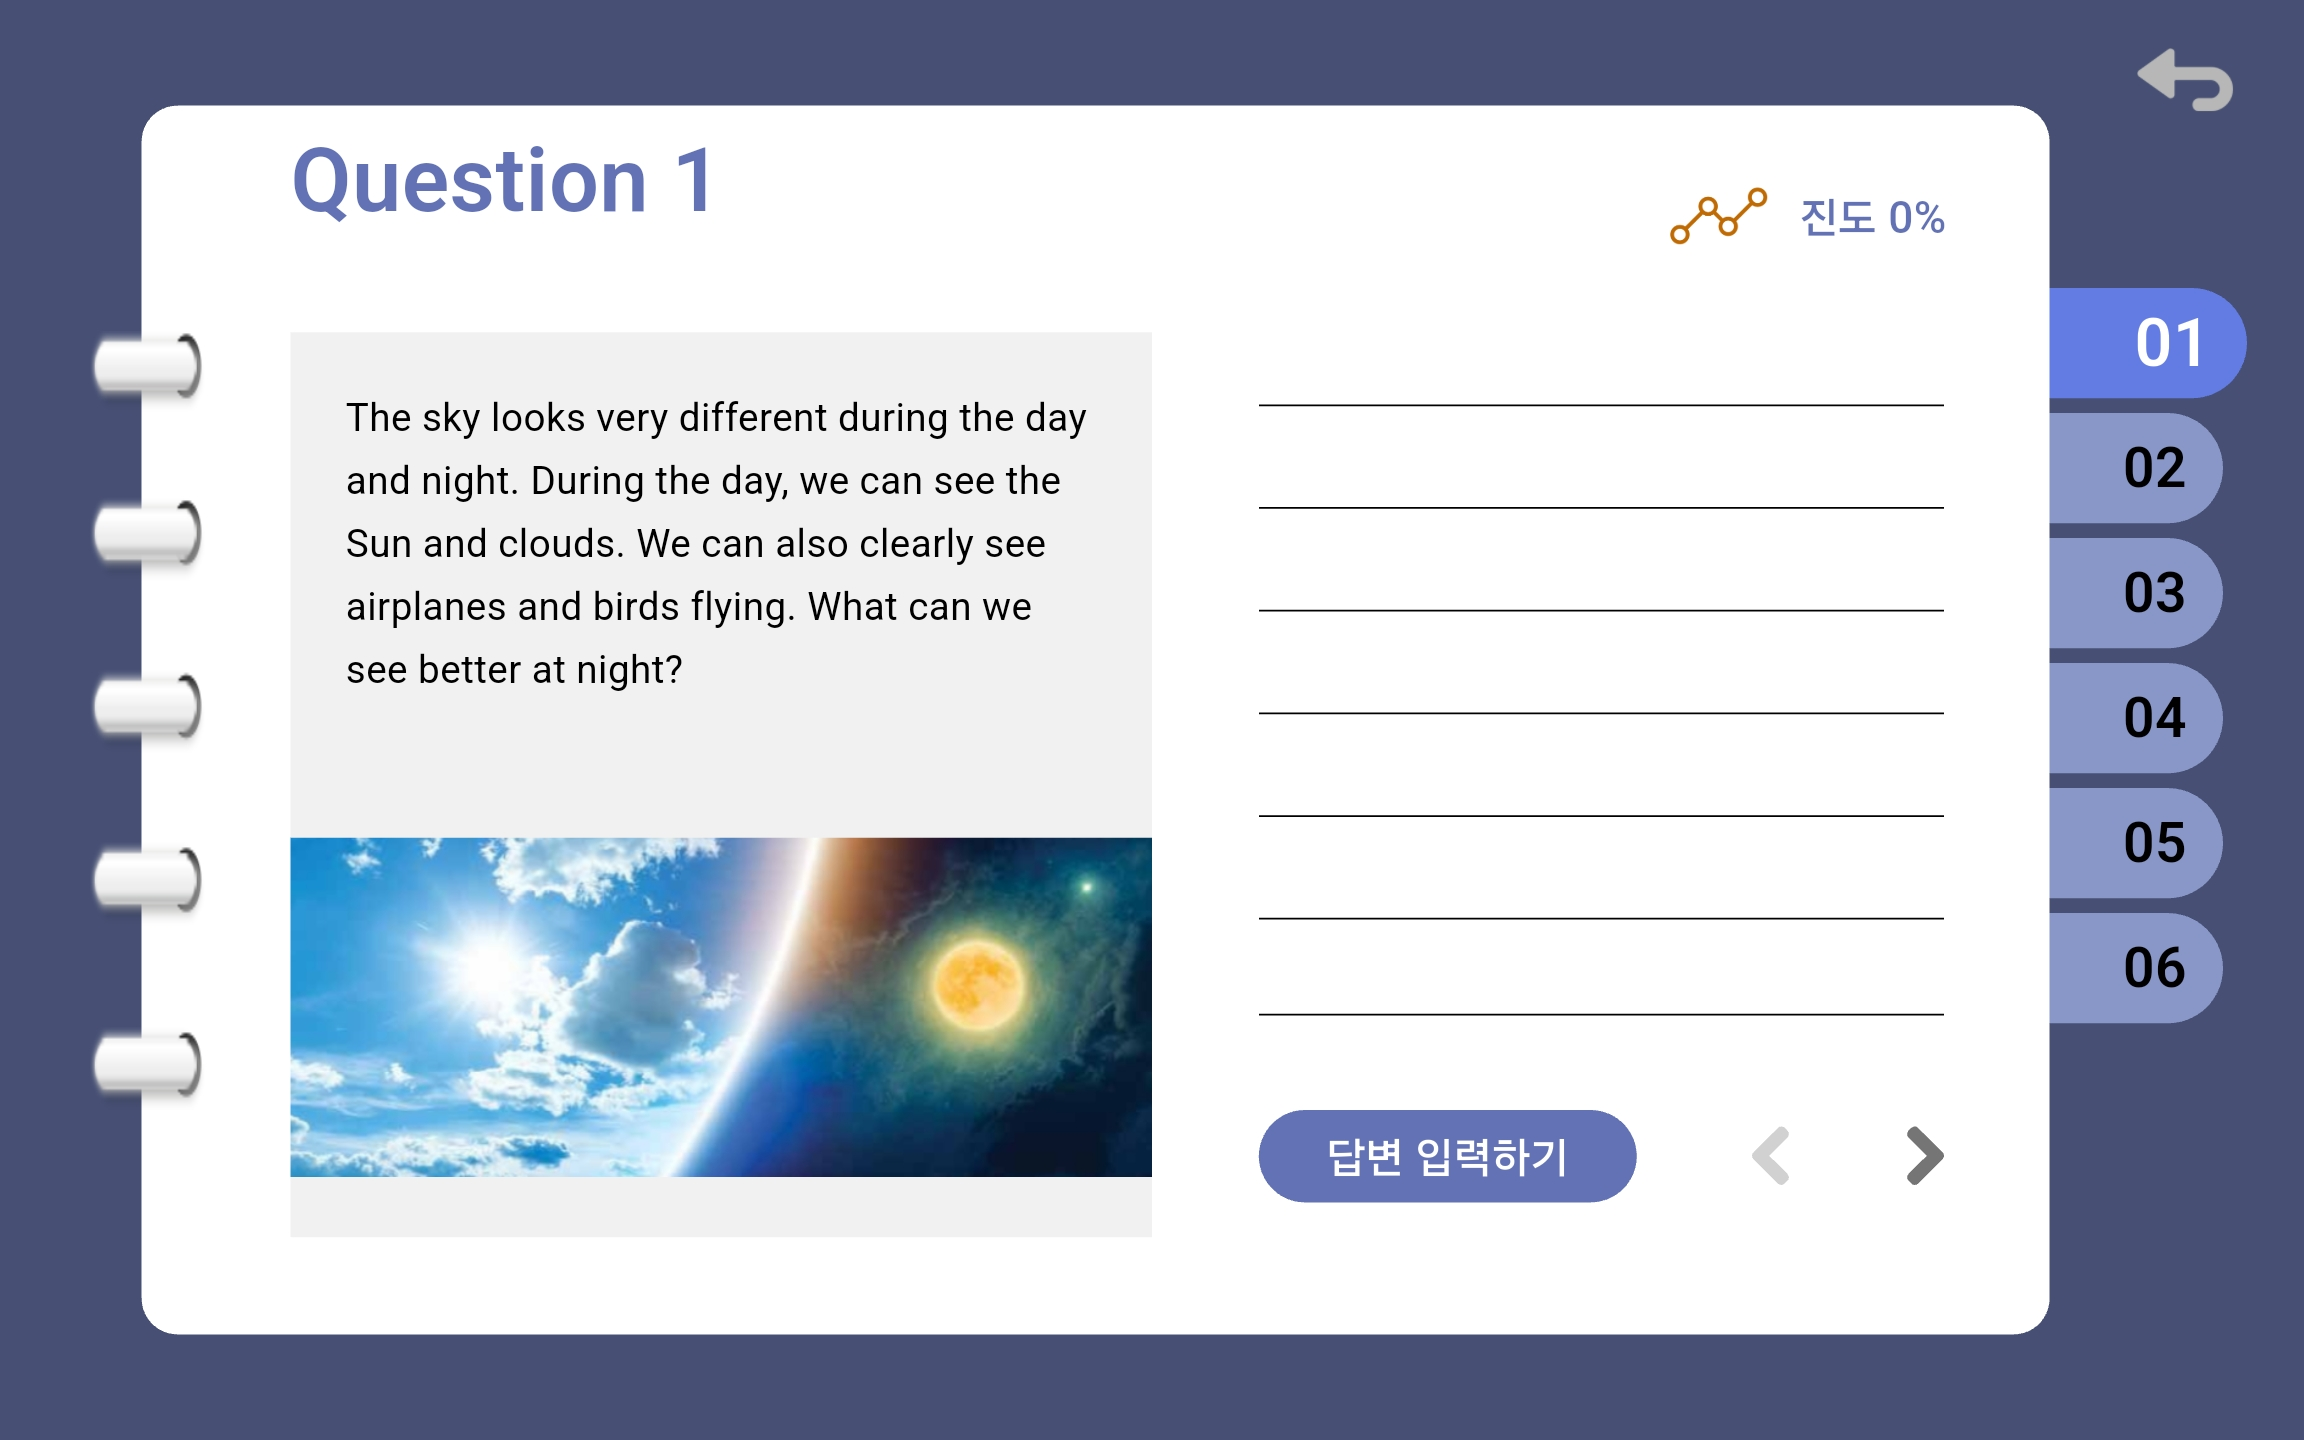
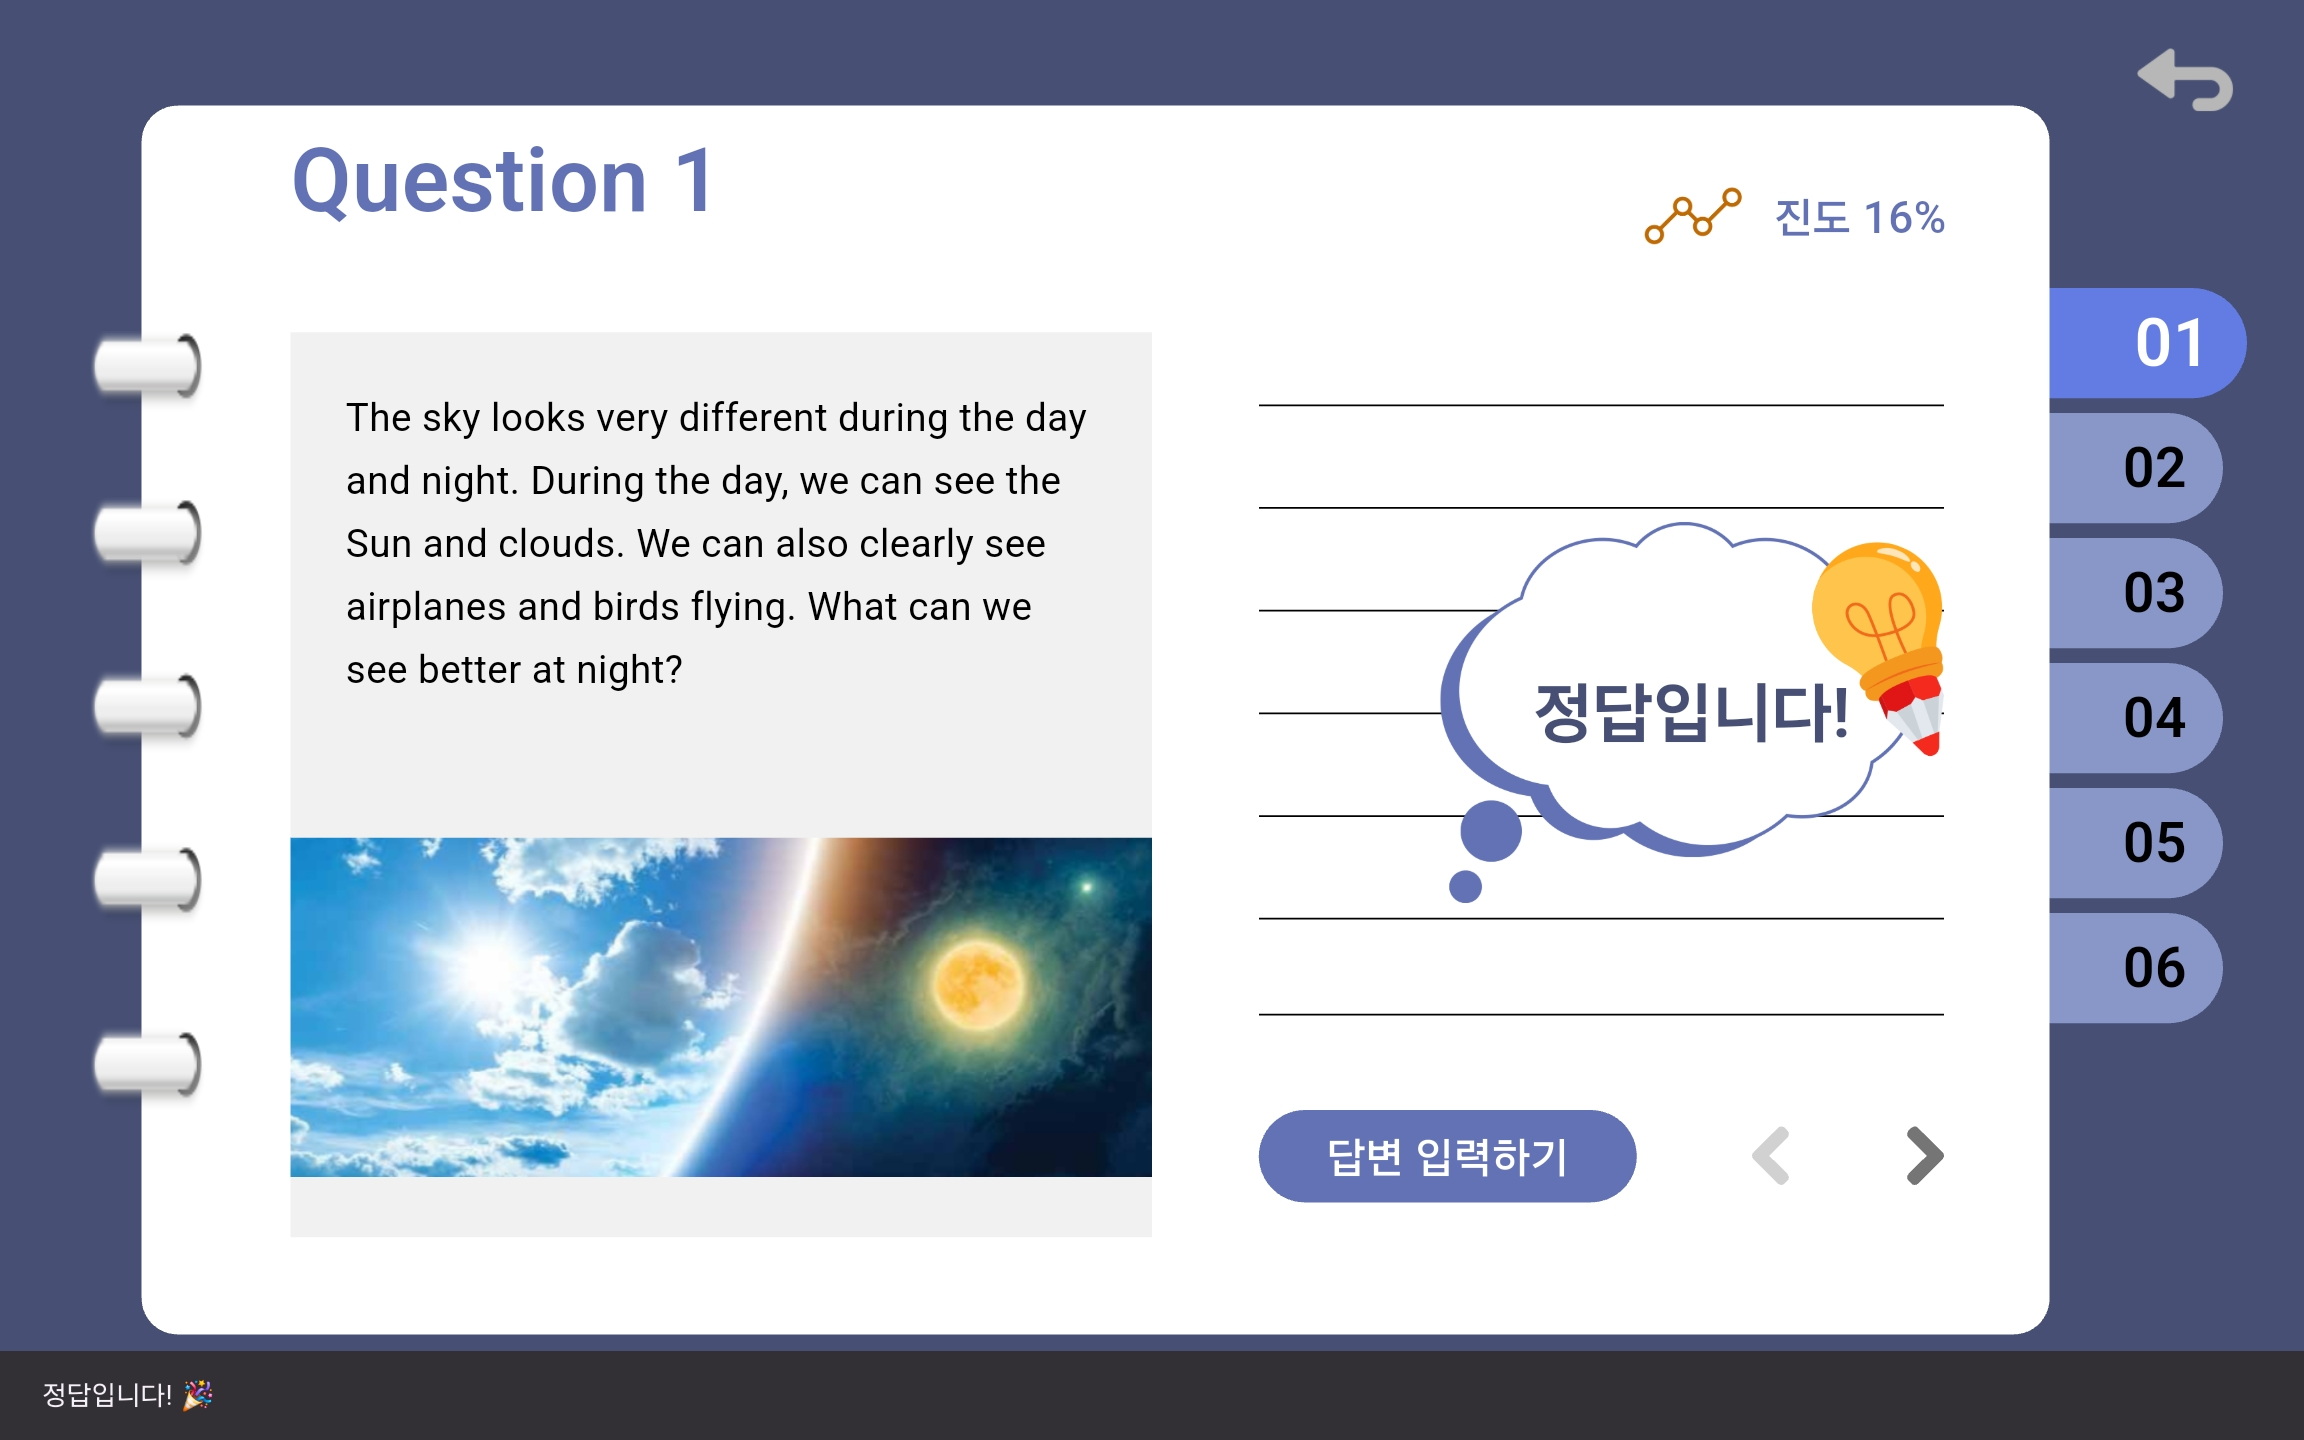
img up 2

Changed region(s): [[0.0, 0.9375, 1.0, 1.0], [0.625, 0.375, 0.8438, 0.625], [0.7188, 0.125, 0.8438, 0.1875]]

diff --git a/www/k2_manual.html b/www/k2_manual.html
@@ -728,7 +728,7 @@
             </div>
             
             <div class="image-placeholder">
-                <img src="../assets/img/manual/k2_m4.jpg" alt="Achivement 메뉴">
+                <img src="../assets/img/manual/k2_m_4.jpg" alt="Achivement 메뉴">
                 <p>Achievement 메뉴 화면</p>
             </div>
             
